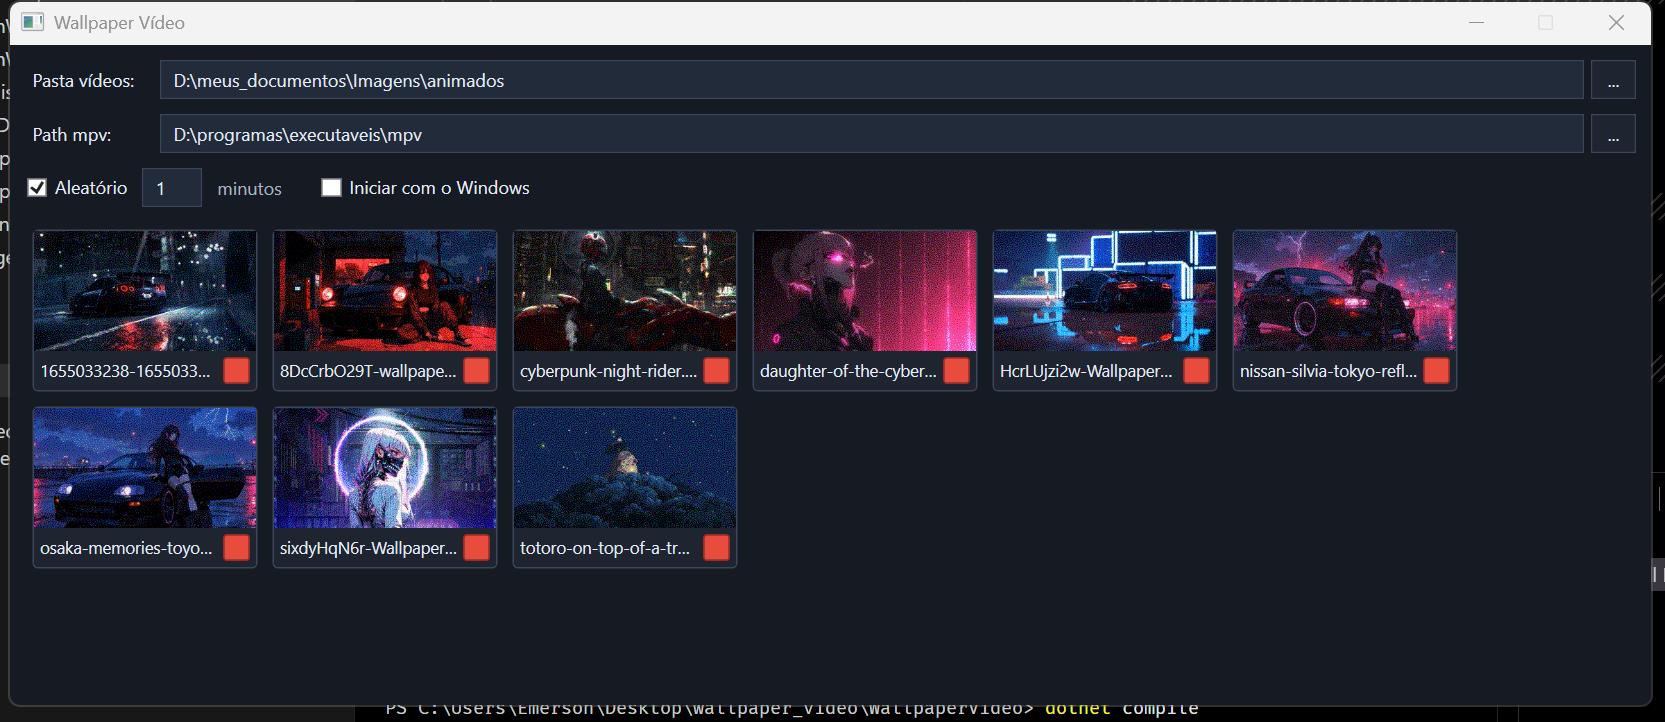
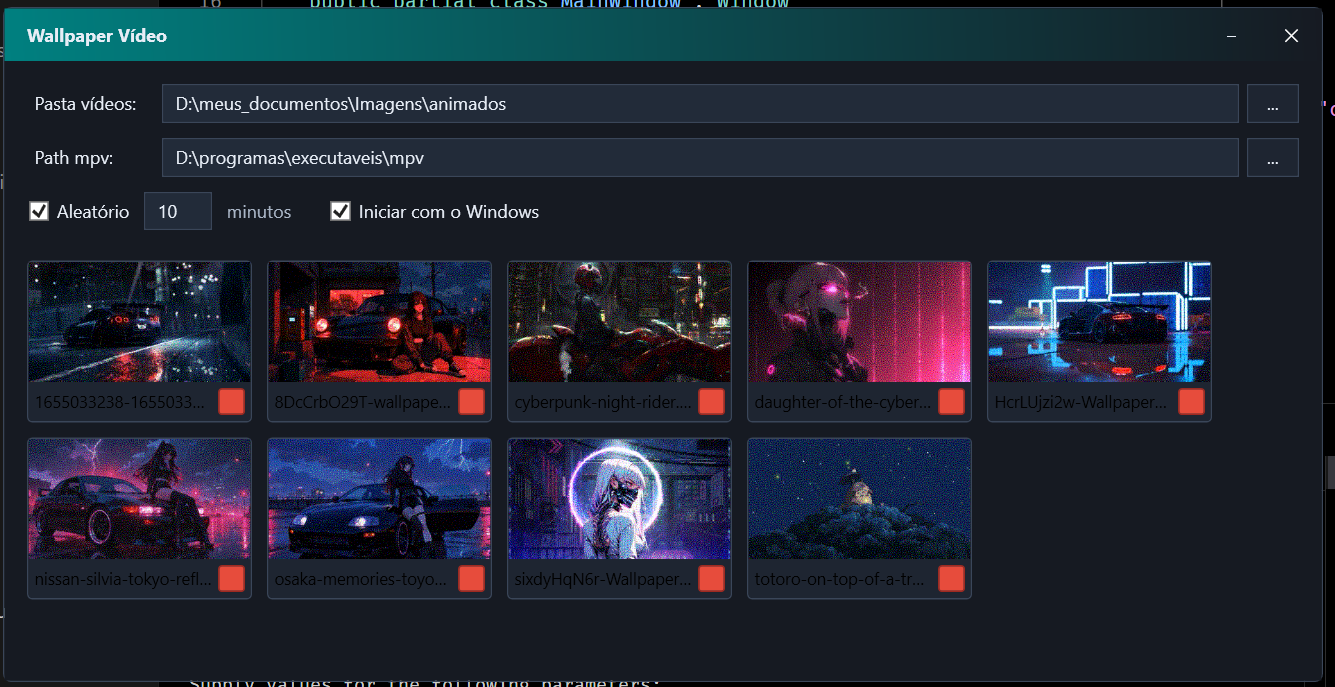
image, title degrade

diff --git a/WallpaperVideo/MainWindow.xaml b/WallpaperVideo/MainWindow.xaml
@@ -1,16 +1,24 @@
 <Window x:Class="WallpaperVideo.MainWindow"
         xmlns="http://schemas.microsoft.com/winfx/2006/xaml/presentation"
         xmlns:x="http://schemas.microsoft.com/winfx/2006/xaml"
-        Title="Wallpaper Vídeo" Height="450" Width="800"
-        Background="#161A22"
-        Foreground="#E7EDF6"
-        WindowStyle="SingleBorderWindow"
-        ResizeMode="CanResize"
+        xmlns:shell="clr-namespace:System.Windows.Shell;assembly=PresentationFramework"
+        Title="Wallpaper Vídeo" Height="500" Width="850"
+        Background="Transparent"
+        AllowsTransparency="True"
+        WindowStyle="None"
         WindowStartupLocation="CenterScreen"
         Closing="Window_Closing"
         Loaded="Window_Loaded"
         LocationChanged="SaveConfig"
         SizeChanged="SaveConfig">
+
+    <WindowChrome.WindowChrome>
+        <shell:WindowChrome CaptionHeight="35" 
+                            ResizeBorderThickness="7" 
+                            GlassFrameThickness="0" 
+                            CornerRadius="5"/>
+    </WindowChrome.WindowChrome>
+
     <Window.Resources>
         <SolidColorBrush x:Key="AppBgBrush" Color="#161A22"/>
         <SolidColorBrush x:Key="PanelBrush" Color="#1E2531"/>
@@ -22,11 +30,9 @@
         <Style TargetType="Label">
             <Setter Property="Foreground" Value="{StaticResource TextBrush}"/>
         </Style>
-
         <Style TargetType="TextBlock">
             <Setter Property="Foreground" Value="{StaticResource TextBrush}"/>
         </Style>
-
         <Style TargetType="TextBox">
             <Setter Property="Foreground" Value="{StaticResource TextBrush}"/>
             <Setter Property="Background" Value="{StaticResource InputBrush}"/>
@@ -34,11 +40,9 @@
             <Setter Property="BorderThickness" Value="1"/>
             <Setter Property="Padding" Value="6,4"/>
         </Style>
-
         <Style TargetType="CheckBox">
             <Setter Property="Foreground" Value="{StaticResource TextBrush}"/>
         </Style>
-
         <Style TargetType="Button">
             <Setter Property="Foreground" Value="{StaticResource TextBrush}"/>
             <Setter Property="Background" Value="{StaticResource PanelBrush}"/>
@@ -48,82 +52,108 @@
         </Style>
     </Window.Resources>
 
-    <Grid Margin="10" Background="{StaticResource AppBgBrush}">
-        <Grid.RowDefinitions>
-            <RowDefinition Height="Auto"/>
-            <RowDefinition Height="Auto"/>
-            <RowDefinition Height="Auto"/>
-            <RowDefinition Height="*"/>
-        </Grid.RowDefinitions>
+    <Border BorderBrush="{StaticResource BorderBrushDark}" BorderThickness="1" CornerRadius="5" ClipToBounds="True">
+        <Grid Background="{StaticResource AppBgBrush}">
+            <Grid.RowDefinitions>
+                <RowDefinition Height="35"/> <RowDefinition Height="Auto"/>
+                <RowDefinition Height="Auto"/>
+                <RowDefinition Height="Auto"/>
+                <RowDefinition Height="*"/>
+            </Grid.RowDefinitions>
 
-        <Grid Grid.Row="0" Margin="0,0,0,10">
-            <Grid.ColumnDefinitions>
-                <ColumnDefinition Width="Auto"/>
-                <ColumnDefinition Width="*"/>
-                <ColumnDefinition Width="Auto"/>
-            </Grid.ColumnDefinitions>
-            <Label Content="Pasta vídeos:" VerticalAlignment="Center" Width="85"/>
-            <TextBox x:Name="txtPath" Grid.Column="1" Margin="5,0" VerticalContentAlignment="Center" IsReadOnly="True"/>
-            <Button Content="..." Grid.Column="2" Width="30" Height="26" Click="BtnSelectFolder_Click"/>
+            <Grid Grid.Row="0">
+                <Grid.Background>
+                    <LinearGradientBrush StartPoint="0,1" EndPoint="1,0">
+                        <!-- start with the original green -->
+                        <GradientStop Color="#008080" Offset="0.0"/>
+                        <!-- transition to the darker shade that was initially first -->
+                        <GradientStop Color="#161A22" Offset="1.0"/>
+                    </LinearGradientBrush>
+                </Grid.Background>
+
+                <TextBlock Text="Wallpaper Vídeo" VerticalAlignment="Center" Margin="15,0" FontWeight="Bold"/>
+
+                <StackPanel Orientation="Horizontal" HorizontalAlignment="Right">
+                    <Button Content="–" Width="40" Height="35" Background="Transparent" BorderThickness="0" 
+                            shell:WindowChrome.IsHitTestVisibleInChrome="True" Click="BtnMinimize_Click"/>
+                    
+                    <Button Content="✕" Width="40" Height="35" Background="Transparent" BorderThickness="0" 
+                            shell:WindowChrome.IsHitTestVisibleInChrome="True" Click="BtnClose_Click">
+                        <Button.Style>
+                            <Style TargetType="Button">
+                                <Setter Property="Foreground" Value="White"/>
+                                <Style.Triggers>
+                                    <Trigger Property="IsMouseOver" Value="True">
+                                        <Setter Property="Background" Value="#E74C3C"/>
+                                    </Trigger>
+                                </Style.Triggers>
+                            </Style>
+                        </Button.Style>
+                    </Button>
+                </StackPanel>
+            </Grid>
+
+            <Grid Grid.Row="1" Margin="15,15,15,10">
+                <Grid.ColumnDefinitions>
+                    <ColumnDefinition Width="Auto"/>
+                    <ColumnDefinition Width="*"/>
+                    <ColumnDefinition Width="Auto"/>
+                </Grid.ColumnDefinitions>
+                <Label Content="Pasta vídeos:" VerticalAlignment="Center" Width="85"/>
+                <TextBox x:Name="txtPath" Grid.Column="1" Margin="5,0" VerticalContentAlignment="Center" IsReadOnly="True"/>
+                <Button Content="..." Grid.Column="2" Width="35" Height="26" Click="BtnSelectFolder_Click"/>
+            </Grid>
+
+            <Grid Grid.Row="2" Margin="15,0,15,10">
+                <Grid.ColumnDefinitions>
+                    <ColumnDefinition Width="Auto"/>
+                    <ColumnDefinition Width="*"/>
+                    <ColumnDefinition Width="Auto"/>
+                </Grid.ColumnDefinitions>
+                <Label Content="Path mpv:" VerticalAlignment="Center" Width="85"/>
+                <TextBox x:Name="txtMpvPath" Grid.Column="1" Margin="5,0" VerticalContentAlignment="Center" IsReadOnly="True"/>
+                <Button Content="..." Grid.Column="2" Width="35" Height="26" Click="BtnSelectMpv_Click"/>
+            </Grid>
+
+            <StackPanel Grid.Row="3" Orientation="Horizontal" Margin="15,0,15,15">
+                <CheckBox x:Name="chkRandom" Content="Aleatório" VerticalAlignment="Center" IsChecked="True" Checked="SaveConfig" Unchecked="SaveConfig"/>
+                <TextBox x:Name="txtMinutes" Width="45" Margin="10,0,5,0" Text="10" VerticalContentAlignment="Center" IsEnabled="{Binding IsChecked, ElementName=chkRandom}" TextChanged="SaveConfig"/>
+                <Label Content="minutos" Margin="0,0,20,0" Foreground="{StaticResource MutedTextBrush}"/>
+                <CheckBox x:Name="chkStartWindows" Content="Iniciar com o Windows" VerticalAlignment="Center" Click="ChkStartWindows_Click"/>
+            </StackPanel>
+
+            <ScrollViewer Grid.Row="4" VerticalScrollBarVisibility="Auto" Margin="10,0,10,10">
+                <ItemsControl x:Name="ItemsVideos">
+                    <ItemsControl.ItemsPanel>
+                        <ItemsPanelTemplate>
+                            <WrapPanel Orientation="Horizontal" />
+                        </ItemsPanelTemplate>
+                    </ItemsControl.ItemsPanel>
+                    <ItemsControl.ItemTemplate>
+                        <DataTemplate>
+                            <Border BorderBrush="{StaticResource BorderBrushDark}" BorderThickness="1" Margin="5" Width="150" Background="{StaticResource PanelBrush}" CornerRadius="3" MouseLeftButtonDown="PlayVideo_Click" Cursor="Hand">
+                                <StackPanel>
+                                    <Image Source="{Binding Thumbnail}" Height="80" Stretch="UniformToFill" RenderOptions.BitmapScalingMode="LowQuality"/>
+                                    <Grid Margin="4">
+                                        <Grid.ColumnDefinitions>
+                                            <ColumnDefinition Width="*"/>
+                                            <ColumnDefinition Width="Auto"/>
+                                        </Grid.ColumnDefinitions>
+                                        <TextBlock Text="{Binding Name}" TextTrimming="CharacterEllipsis" VerticalAlignment="Center" FontSize="11"/>
+                                        <Button Grid.Column="1" Content="X" Foreground="White" Background="#E74C3C" Width="18" Height="18" Margin="4,0,0,0" BorderBrush="#9F2A21" BorderThickness="1" Click="RemoveVideo_Click" CommandParameter="{Binding}">
+                                            <Button.Resources>
+                                                <Style TargetType="Border">
+                                                    <Setter Property="CornerRadius" Value="2"/>
+                                                </Style>
+                                            </Button.Resources>
+                                        </Button>
+                                    </Grid>
+                                </StackPanel>
+                            </Border>
+                        </DataTemplate>
+                    </ItemsControl.ItemTemplate>
+                </ItemsControl>
+            </ScrollViewer>
         </Grid>
-
-        <Grid Grid.Row="1" Margin="0,0,0,10">
-            <Grid.ColumnDefinitions>
-                <ColumnDefinition Width="Auto"/>
-                <ColumnDefinition Width="*"/>
-                <ColumnDefinition Width="Auto"/>
-            </Grid.ColumnDefinitions>
-            <Label Content="Path mpv:" VerticalAlignment="Center" Width="85"/>
-            <TextBox x:Name="txtMpvPath" Grid.Column="1" Margin="5,0"
-                 VerticalContentAlignment="Center" IsReadOnly="True"
-                 Text="D:\programas\executaveis\mpv"/>
-            <Button Content="..." Grid.Column="2" Width="30" Height="26" Click="BtnSelectMpv_Click"/>
-        </Grid>
-
-        <StackPanel Grid.Row="2" Orientation="Horizontal" Margin="0,0,0,10">
-            <CheckBox x:Name="chkRandom" Content="Aleatório" VerticalAlignment="Center" IsChecked="True"
-                      Checked="SaveConfig" Unchecked="SaveConfig"/>
-            <TextBox x:Name="txtMinutes" Width="40" Margin="10,0,5,0" Text="10"
-                     IsEnabled="{Binding IsChecked, ElementName=chkRandom}"
-                     TextChanged="SaveConfig"/>
-            <Label Content="minutos" Margin="0,0,20,0" Foreground="{StaticResource MutedTextBrush}"/>
-            <CheckBox x:Name="chkStartWindows" Content="Iniciar com o Windows" VerticalAlignment="Center" Click="ChkStartWindows_Click"/>
-        </StackPanel>
-
-        <ScrollViewer Grid.Row="3" VerticalScrollBarVisibility="Auto">
-            <ItemsControl x:Name="ItemsVideos">
-                <ItemsControl.ItemsPanel>
-                    <ItemsPanelTemplate>
-                        <WrapPanel Orientation="Horizontal" />
-                    </ItemsPanelTemplate>
-                </ItemsControl.ItemsPanel>
-                <ItemsControl.ItemTemplate>
-                    <DataTemplate>
-                        <Border BorderBrush="{StaticResource BorderBrushDark}" BorderThickness="1" Margin="5" Width="150" Background="{StaticResource PanelBrush}" CornerRadius="3" MouseLeftButtonDown="PlayVideo_Click" Cursor="Hand">
-                            <StackPanel>
-                                <Image Source="{Binding Thumbnail}" Height="80" Stretch="UniformToFill" RenderOptions.BitmapScalingMode="LowQuality"/>
-                                <Grid Margin="4">
-                                    <Grid.ColumnDefinitions>
-                                        <ColumnDefinition Width="*"/>
-                                        <ColumnDefinition Width="Auto"/>
-                                    </Grid.ColumnDefinitions>
-                                    <TextBlock Text="{Binding Name}" TextTrimming="CharacterEllipsis" VerticalAlignment="Center" FontSize="11"/>
-                                    <Button Grid.Column="1" Content="X" Foreground="White" Background="#E74C3C"
-                                            Width="18" Height="18" Margin="4,0,0,0"
-                                            BorderBrush="#9F2A21" BorderThickness="1"
-                                            Click="RemoveVideo_Click" CommandParameter="{Binding}">
-                                        <Button.Resources>
-                                            <Style TargetType="Border">
-                                                <Setter Property="CornerRadius" Value="2"/>
-                                            </Style>
-                                        </Button.Resources>
-                                    </Button>
-                                </Grid>
-                            </StackPanel>
-                        </Border>
-                    </DataTemplate>
-                </ItemsControl.ItemTemplate>
-            </ItemsControl>
-        </ScrollViewer>
-    </Grid>
+    </Border>
 </Window>

diff --git a/WallpaperVideo/MainWindow.xaml.cs b/WallpaperVideo/MainWindow.xaml.cs
@@ -1,4 +1,5 @@
 using System;
+using System.Windows.Input;
 using System.Collections.Generic;
 using System.Collections.ObjectModel;
 using System.IO;
@@ -531,6 +532,28 @@ namespace WallpaperVideo
             SaveConfig(null, null);
             Close();
         }
+
+        #region windows btns menu bar
+        // Para permitir arrastar a janela
+        private void TitleBar_MouseLeftButtonDown(object sender, MouseButtonEventArgs e)
+        {
+            if (e.ChangedButton == MouseButton.Left)
+                this.DragMove();
+        }
+
+        // Botão Fechar
+        private void BtnClose_Click(object sender, RoutedEventArgs e)
+        {
+            this.Close();
+        }
+
+        // Botão Minimizar
+        private void BtnMinimize_Click(object sender, RoutedEventArgs e)
+        {
+            this.WindowState = WindowState.Minimized;
+        }
+        #endregion
+
     }
 
     public class VideoItem
